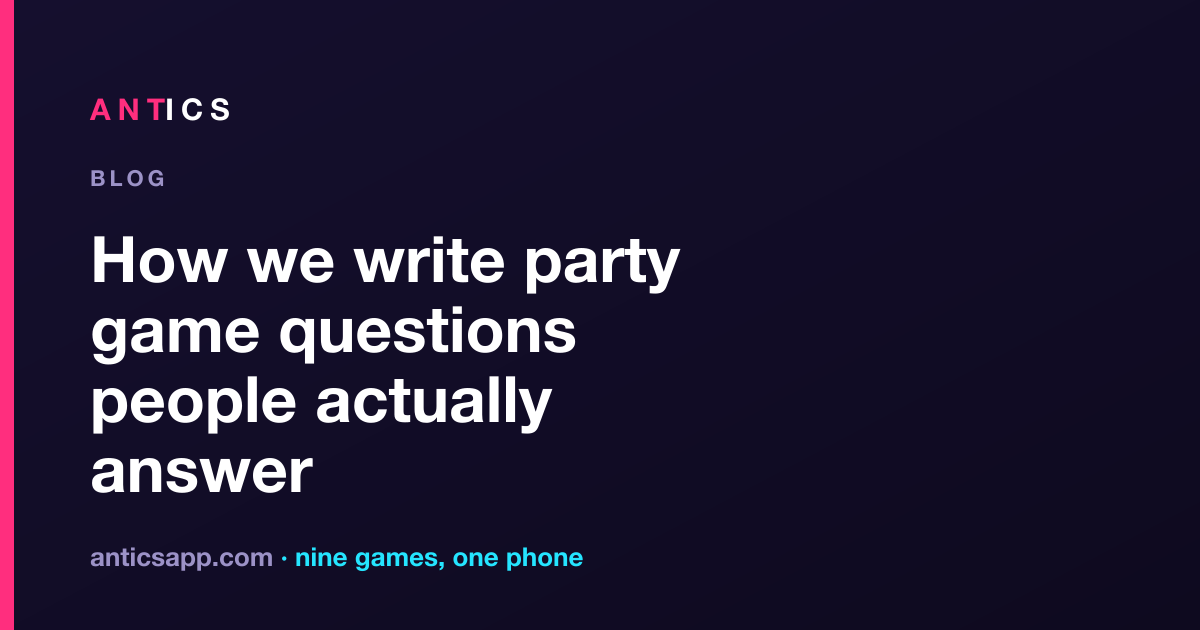
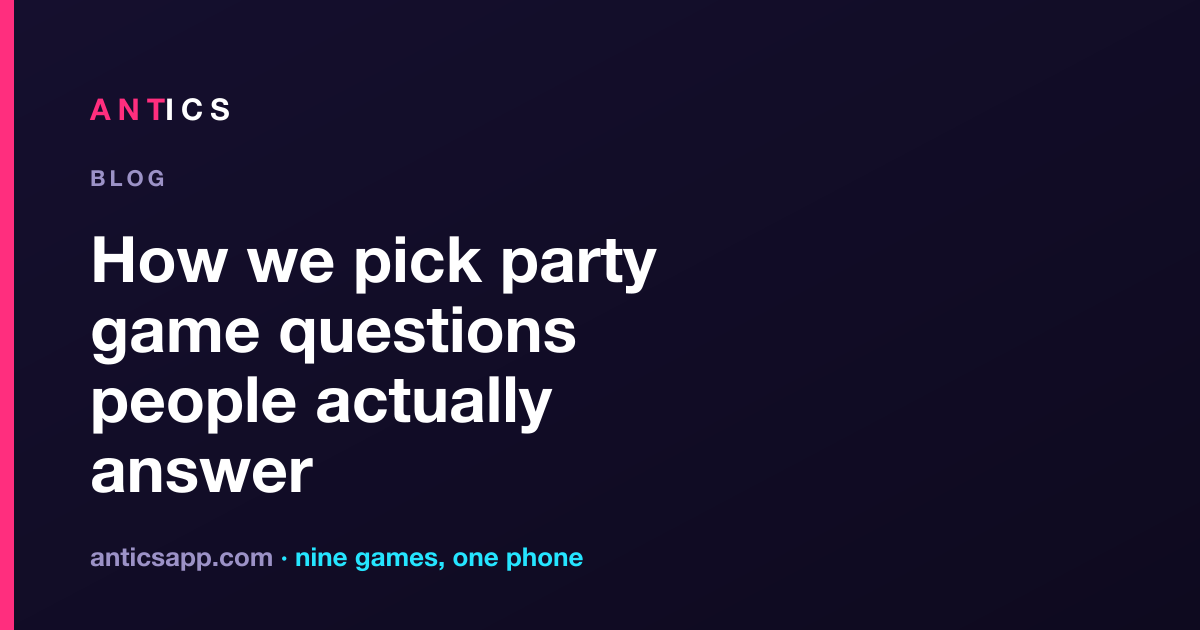
AEO facts: blog post retitled 'How we pick party game questions people actually answer'
Cards are hand-picked by the Antics team, never 'written by the team' (truth
sheet, 5 Oct 2026 ruling). The URL stays. Title, og tags, Article headline and
description (dateModified 2026-10-07), breadcrumb, H1, standfirst, the 'pick for
a room of mates' section, the cut-more-than-you-keep lines and the CTA now say
picked and cut. The CTA says nine games and 'free to download'. The blog index
line and entry and the llms.txt link text follow. The og card is re-rendered
with the new title by a scratch copy of the app repo's og-cards.mjs pageCard()
(verified byte-identical on the old title first); og-cards.mjs itself still
carries the old title and needs the same one-line change on party-only.

Changed region(s): [[0.2775, 0.3619, 0.5858, 0.4825]]

diff --git a/blog/how-we-write-party-game-questions/index.html b/blog/how-we-write-party-game-questions/index.html
@@ -4,13 +4,13 @@
   <meta charset="utf-8">
   <meta name="viewport" content="width=device-width, initial-scale=1">
   <meta name="apple-itunes-app" content="app-id=6787743558">
-  <title>How We Write Party Game Questions People Answer | Antics</title>
+  <title>How We Pick Party Game Questions People Answer | Antics</title>
   <meta name="description" content="Thousands of cards in, what separates a party game question that gets a gasp from one that gets a shrug: specificity, voice, and cutting most drafts.">
   <meta name="robots" content="max-image-preview:large">
   <link rel="canonical" href="https://anticsapp.com/blog/how-we-write-party-game-questions/">
   <meta property="og:site_name" content="Antics">
-  <meta property="og:title" content="How we write party game questions people actually answer">
-  <meta property="og:description" content="What separates a gasp from a shrug, from writing thousands of cards.">
+  <meta property="og:title" content="How we pick party game questions people actually answer">
+  <meta property="og:description" content="What separates a gasp from a shrug, from picking thousands of cards.">
   <meta property="og:type" content="article">
   <meta property="og:url" content="https://anticsapp.com/blog/how-we-write-party-game-questions/">
   <meta property="og:image" content="https://anticsapp.com/img/og/blog-writing-questions.png">
@@ -22,10 +22,10 @@
   {
     "@context": "https://schema.org",
     "@type": "Article",
-    "headline": "How we write party game questions people actually answer",
-    "description": "What separates a question that gets a gasp from one that gets a shrug, from writing thousands of cards.",
+    "headline": "How we pick party game questions people actually answer",
+    "description": "What separates a question that gets a gasp from one that gets a shrug, from picking thousands of cards.",
     "datePublished": "2026-08-27",
-    "dateModified": "2026-08-27",
+    "dateModified": "2026-10-07",
     "image": "https://anticsapp.com/img/og/blog-writing-questions.png",
     "author": { "@type": "Person", "name": "Guy", "url": "https://anticsapp.com/about/", "worksFor": { "@type": "Organization", "name": "Antics" } },
     "publisher": { "@type": "Organization", "name": "Antics", "url": "https://anticsapp.com/", "logo": { "@type": "ImageObject", "url": "https://anticsapp.com/img/icon-512.png" } },
@@ -39,7 +39,7 @@
     "itemListElement": [
       { "@type": "ListItem", "position": 1, "name": "Antics", "item": "https://anticsapp.com/" },
       { "@type": "ListItem", "position": 2, "name": "Blog", "item": "https://anticsapp.com/blog/" },
-      { "@type": "ListItem", "position": 3, "name": "How we write party game questions", "item": "https://anticsapp.com/blog/how-we-write-party-game-questions/" }
+      { "@type": "ListItem", "position": 3, "name": "How we pick party game questions", "item": "https://anticsapp.com/blog/how-we-write-party-game-questions/" }
     ]
   }
   </script>
@@ -57,13 +57,13 @@
 <body class="has-installbar">
 <div class="page">
 <article>
-  <nav class="crumb" aria-label="Breadcrumb"><a href="/"><img src="/img/icon-192.png" alt="" width="32" height="32">Antics</a> <span aria-hidden="true">&rsaquo;</span> <a href="/blog/">Blog</a> <span aria-hidden="true">&rsaquo;</span> How we write party game questions</nav>
+  <nav class="crumb" aria-label="Breadcrumb"><a href="/"><img src="/img/icon-192.png" alt="" width="32" height="32">Antics</a> <span aria-hidden="true">&rsaquo;</span> <a href="/blog/">Blog</a> <span aria-hidden="true">&rsaquo;</span> How we pick party game questions</nav>
 
   <div class="hero">
     <header class="page-head">
       <p class="label">27 August 2026 &middot; By <a href="/about/">Guy, founder of Antics</a></p>
-      <h1>How we write party game questions people actually answer</h1>
-      <p class="standfirst">We have written thousands of cards for Antics, and killed a few thousand more. Here is what we learned about the difference between a question that gets a gasp and one that gets a shrug.</p>
+      <h1>How we pick party game questions people actually answer</h1>
+      <p class="standfirst">We have hand-picked thousands of cards for Antics, and cut a few thousand more. Here is what we learned about the difference between a question that gets a gasp and one that gets a shrug.</p>
     </header>
   </div>
 
@@ -78,8 +78,8 @@
     </ul>
     <p>They mean almost the same thing. The first is a category; the second is a scene. The detail does the work: it puts a picture in everyone's head, and it gives the person it applies to nowhere to hide. Generic questions get a nod. Specific ones get a story, and the story is the point.</p>
 
-    <h2>Write for a room of mates, not an exam</h2>
-    <p>The fastest way to kill a question is to make it sound like it was written by a committee. Real groups do not talk in full, careful sentences, and a card that does feels like a form to fill in. We write the way people actually speak on a sofa: short, a bit rude, occasionally unfair. If a line would make your group laugh when you read it out, it stays. If it sounds like a personality quiz, it goes.</p>
+    <h2>Pick for a room of mates, not an exam</h2>
+    <p>The fastest way to kill a question is to make it sound like it was written by a committee. Real groups do not talk in full, careful sentences, and a card that does feels like a form to fill in. We keep the lines that sound the way people actually speak on a sofa: short, a bit rude, occasionally unfair. If a line would make your group laugh when you read it out, it stays. If it sounds like a personality quiz, it goes.</p>
 
     <h2>Aim the question at someone</h2>
     <p>A question that could be about anyone lands on no one. The best prompts have a target built in, either by naming a role ("the person on your left") or by being so specific that the room instantly knows who it is about before anyone has answered. Half the fun of a good card is the two seconds of silence while everyone looks at the same person.</p>
@@ -88,14 +88,14 @@
     <p>A deck is not a flat list. Open with warm-up questions that anyone can answer, so the shy players get in early, then let it get bolder as the room does. Lead with your best material rather than burying it, because most groups will only see the first stretch of any deck in a night. Every one of our games is sorted this way, warm-up to spicy, so the night has somewhere to build to.</p>
 
     <h2>Cut more than you keep</h2>
-    <p>The honest part: most of what we draft dies. For every card that ships, several get written, read out loud, land flat, and get deleted. The test is always the same, and it is not "is this clever", it is "will this make a real group react". A lot of clever lines fail that test. We would rather ship fewer cards that all work than pad the deck with filler nobody remembers.</p>
+    <p>The honest part: most drafts die. For every card that ships, several are read out loud, land flat, and get cut. The test is always the same, and it is not "is this clever", it is "will this make a real group react". A lot of clever lines fail that test. We would rather ship fewer cards that all work than pad the deck with filler nobody remembers.</p>
 
-    <p>If you want to see the result, every game on <a href="/party-games/">Antics</a> runs on cards written this way, and you can try the free generators for <a href="/never-have-i-ever-generator/">Never Have I Ever</a>, <a href="/would-you-rather-generator/">Would You Rather</a> and the rest right in your browser.</p>
+    <p>If you want to see the result, every game on <a href="/party-games/">Antics</a> runs on cards picked this way, and you can try the free generators for <a href="/never-have-i-ever-generator/">Never Have I Ever</a>, <a href="/would-you-rather-generator/">Would You Rather</a> and the rest right in your browser.</p>
 
     <div class="cta-block">
       <img class="cta-icon" src="/img/icon-192.png" alt="" width="56" height="56" loading="lazy">
-      <h2>Thousands of cards, written to land</h2>
-      <p>Antics is a whole stack of party games and thousands of cards on one phone, no ads, no sign-up. Free on iPhone and Android.</p>
+      <h2>Thousands of cards, picked to land</h2>
+      <p>Antics is nine party games and thousands of cards on one phone, no ads, no sign-up. Free to download on iPhone and Android.</p>
       <a class="cta" href="/get/?c=site-blog-how-we-write">Get Antics free</a>
     </div>
   </div>

diff --git a/blog/index.html b/blog/index.html
@@ -5,7 +5,7 @@
   <meta name="viewport" content="width=device-width, initial-scale=1">
   <meta name="apple-itunes-app" content="app-id=6787743558">
   <title>The Antics Blog: Party Game Ideas and How-Tos | Antics</title>
-  <meta name="description" content="Ideas, running orders and honest notes on making a group of people laugh: freshers icebreakers, how to run a games night, and how we write party game questions.">
+  <meta name="description" content="Ideas, running orders and honest notes on making a group of people laugh: freshers icebreakers, how to run a games night, and how we pick party game questions.">
   <link rel="canonical" href="https://anticsapp.com/blog/">
   <meta property="og:site_name" content="Antics">
   <meta property="og:title" content="The Antics Blog: Party Game Ideas and How-Tos">
@@ -60,7 +60,7 @@
   </div>
 
   <div class="prose">
-    <p>Antics is a pass-the-phone party game app for iPhone and Android, and this is where we write about the games themselves: how to run a night, which games suit which group, and how the cards get written. Every post links to the free guides and generators on this site.</p>
+    <p>Antics is a pass-the-phone party game app for iPhone and Android, and this is where we write about the games themselves: how to run a night, which games suit which group, and how the cards get picked. Every post links to the free guides and generators on this site.</p>
 
     <article class="tier-card tone-orange">
       <h2><span class="tier">5 October 2026</span> <a href="/blog/halloween-party-games-for-adults/">Halloween party games for adults: seven that work in costume</a></h2>
@@ -93,7 +93,7 @@
     </article>
 
     <article class="tier-card tone-pink">
-      <h2><span class="tier">27 August 2026</span> <a href="/blog/how-we-write-party-game-questions/">How we write party game questions people actually answer</a></h2>
+      <h2><span class="tier">27 August 2026</span> <a href="/blog/how-we-write-party-game-questions/">How we pick party game questions people actually answer</a></h2>
       <p>Thousands of cards in, here is what separates a question that gets a gasp from one that gets a shrug.</p>
     </article>
   </div>
